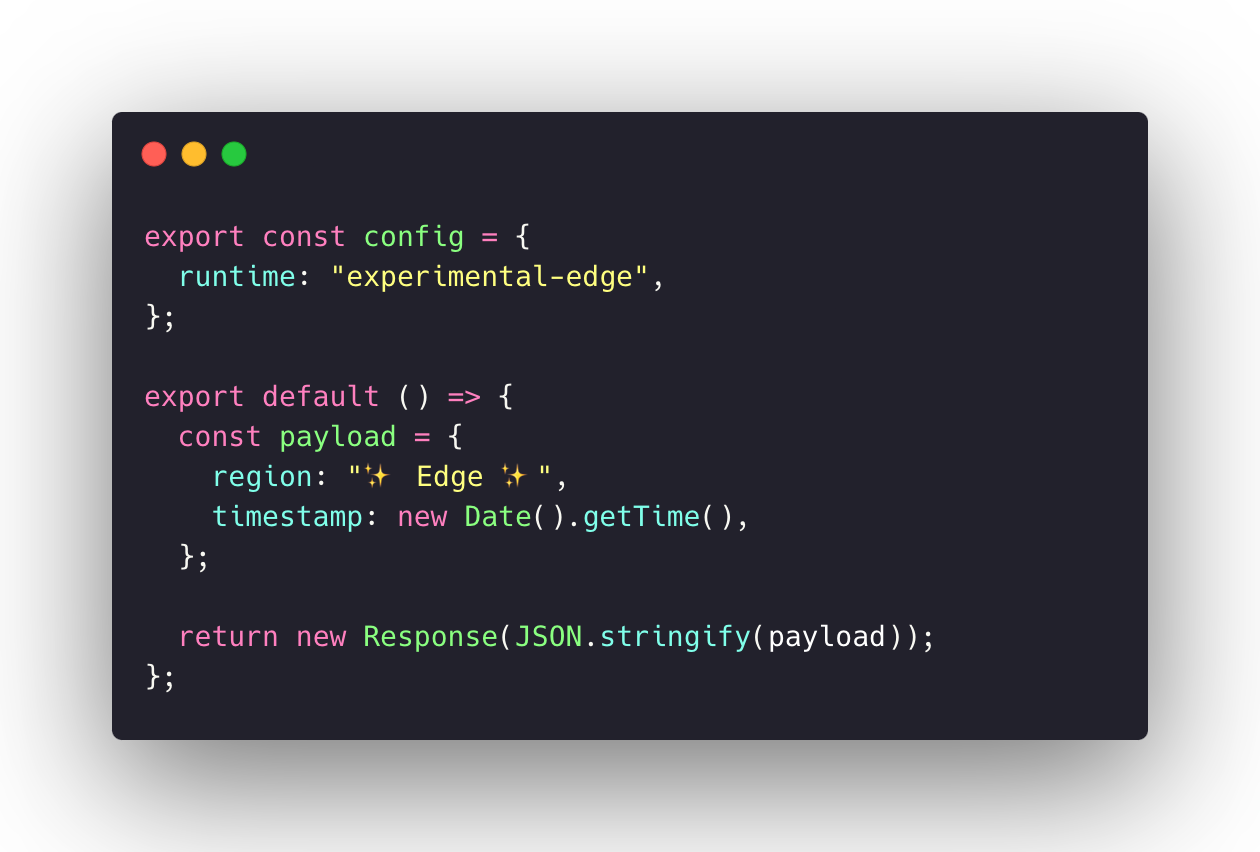
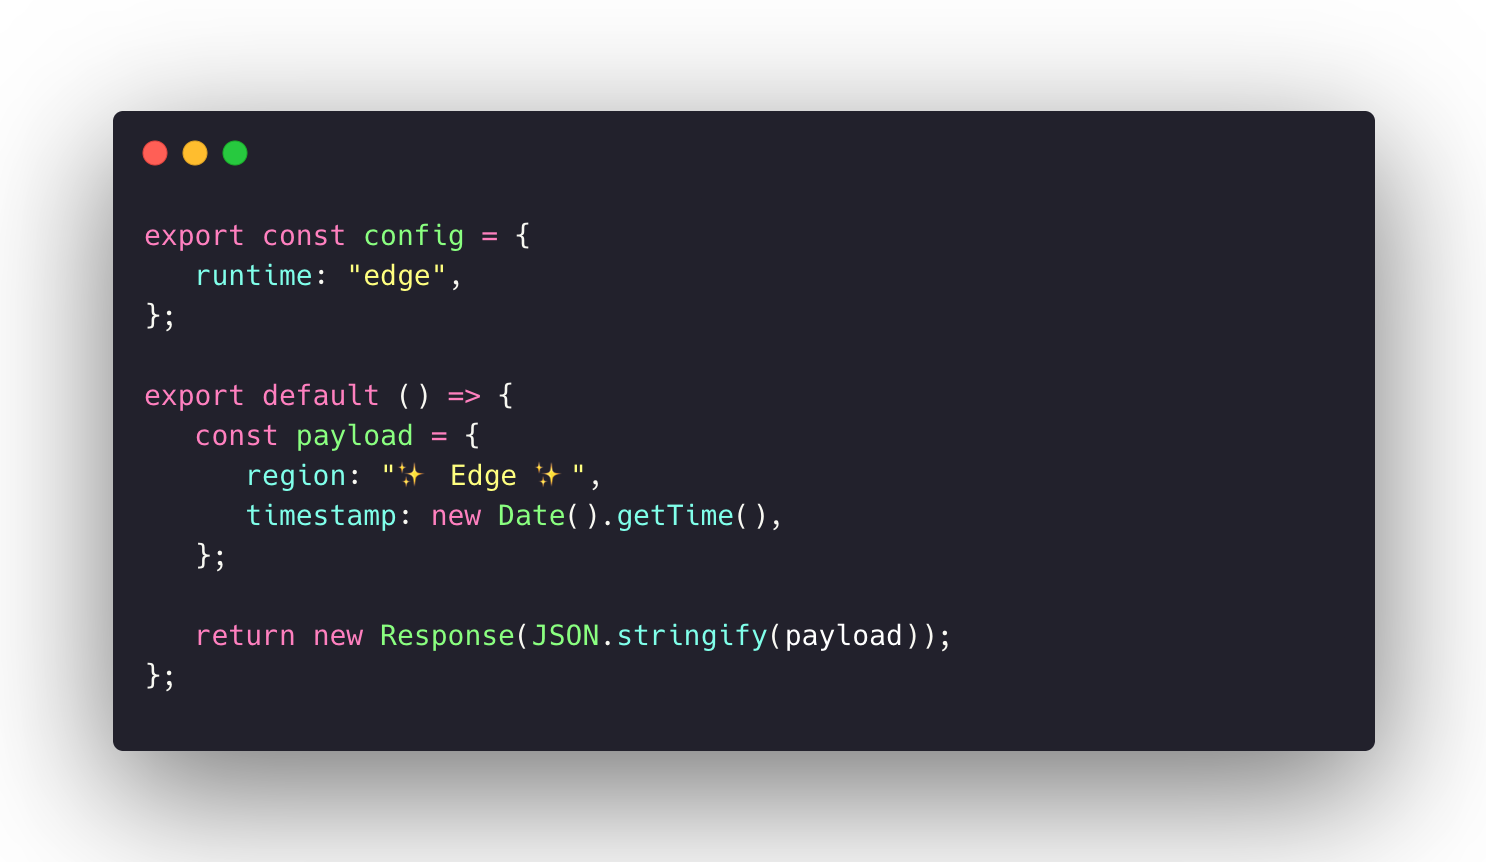
feat: more updates again

Changed region(s): [[0.0619, 0.1221, 0.9286, 0.885], [0.1238, 0.7019, 0.7429, 0.7629], [0.1238, 0.6408, 0.1548, 0.6714]]

diff --git a/api/date-with-cache.js b/api/date-with-cache.js
@@ -1,9 +1,9 @@
 export default (req, res) => {
-  const payload = {
-    region: process.env.AWS_REGION,
-    timestamp: new Date().getTime(),
-  };
+   const payload = {
+      region: process.env.AWS_REGION,
+      timestamp: new Date().getTime(),
+   };
 
-  res.setHeader("Cache-Control", `s-maxage=20, stale-while-revalidate=60`);
-  res.send(payload);
+   res.setHeader("Cache-Control", `s-maxage=20, stale-while-revalidate=60`);
+   res.send(payload);
 };

diff --git a/api/date-edge.js b/api/date-edge.js
@@ -1,12 +1,12 @@
 export const config = {
-  runtime: "experimental-edge",
+   runtime: "experimental-edge",
 };
 
 export default () => {
-  const payload = {
-    region: "✨ Edge ✨",
-    timestamp: new Date().getTime(),
-  };
+   const payload = {
+      region: "✨ Edge ✨",
+      timestamp: new Date().getTime(),
+   };
 
-  return new Response(JSON.stringify(payload));
+   return new Response(JSON.stringify(payload));
 };

diff --git a/apps/app-edge/src/hooks.server.js b/apps/app-edge/src/hooks.server.js
@@ -1,7 +1,7 @@
 export const handle = async ({ event, resolve }) => {
-  const response = await resolve(event);
+   const response = await resolve(event);
 
-  response.headers.set("Cache-Control", `s-maxage=${5 * 60}`);
+   // response.headers.set("Cache-Control", `s-maxage=${5 * 60}`);
 
-  return response;
+   return response;
 };

diff --git a/api/date.js b/api/date.js
@@ -1,8 +1,8 @@
 export default (req, res) => {
-  const payload = {
-    region: process.env.AWS_REGION,
-    timestamp: new Date().getTime(),
-  };
+   const payload = {
+      region: process.env.AWS_REGION,
+      timestamp: new Date().getTime(),
+   };
 
-  res.send(payload);
+   res.send(payload);
 };
